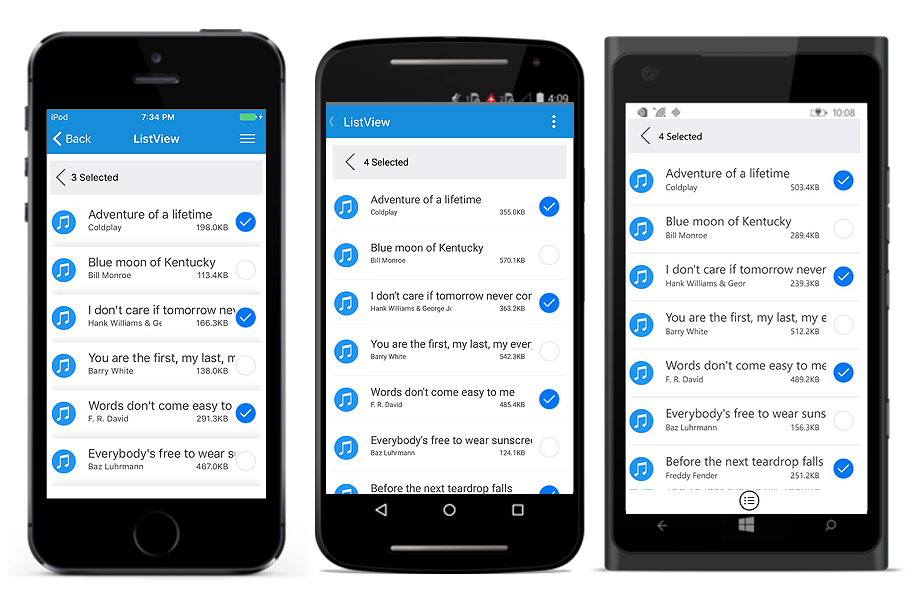
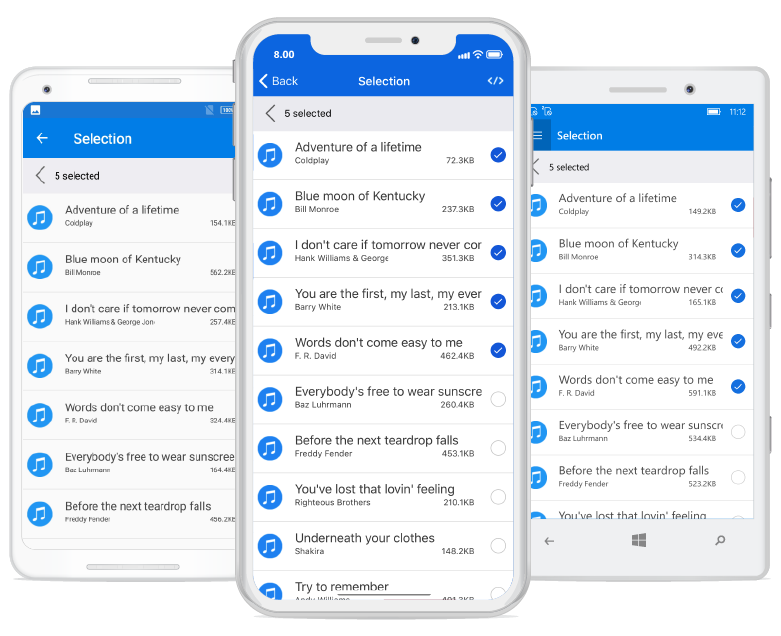
[XForms] XAMARIN-13875, Need to improve the content of Selection and Load More in ListView UG.

diff --git a/Xamarin/SfListView/LoadMore.md b/Xamarin/SfListView/LoadMore.md
@@ -8,7 +8,7 @@ documentation: ug
 ---
 # Load More
 
-SfListView enables `Load More` view by setting the [SfListView.LoadMoreOption](https://help.syncfusion.com/cr/cref_files/xamarin/sflistview/Syncfusion.SfListView.XForms~Syncfusion.ListView.XForms.SfListView~LoadMoreOption.html) and the [SfListView.LoadMoreCommand](https://help.syncfusion.com/cr/cref_files/xamarin/sflistview/Syncfusion.SfListView.XForms~Syncfusion.ListView.XForms.SfListView~LoadMoreCommand.html) properties. When end of the list is reached, `Load More View` will be displayed which provides an option to add the items at runtime.
+SfListView enables `Load More` view by setting the [SfListView.LoadMoreOption](https://help.syncfusion.com/cr/cref_files/xamarin/sflistview/Syncfusion.SfListView.XForms~Syncfusion.ListView.XForms.SfListView~LoadMoreOption.html), [SfListView.LoadMoreCommand](https://help.syncfusion.com/cr/cref_files/xamarin/sflistview/Syncfusion.SfListView.XForms~Syncfusion.ListView.XForms.SfListView~LoadMoreCommand.html) and [SfListView.IsBusy](https://help.syncfusion.com/cr/cref_files/xamarin/sflistview/Syncfusion.SfListView.XForms~Syncfusion.ListView.XForms.SfListView~IsBusy.html) properties. When end of the list is reached, `Load More` view will be displayed which provides an option to add the items at runtime.
 
 `LoadMoreOption` property has three different modes of operation as listed as follows:
 
@@ -28,13 +28,26 @@ To load more items automatically, follow the code example:
                  ItemSize="120"
                  LoadMoreOption="Auto"
                  LoadMoreCommand="{Binding LoadMoreItemsCommand}"
+                 LoadMoreCommandParameter="{Binding Source={x:Reference listView}}"
+                 IsBusy="{Binding IsBusy}"
                  ItemsSource="{Binding Products}"/>
 {% endhighlight %}
 {% highlight c# %}
 listView.LoadMoreOption = LoadMoreOption.Auto;
 listView.LoadMoreCommand = viewModel.LoadMoreItemsCommand;
+listView.SetBinding(SfListView.IsBusyProperty, new Binding("IsBusy"));
 
 //ViewModel.cs
+private bool isBusy;
+public bool IsBusy
+{
+   get { return isBusy; }
+   set
+   {
+       this.isBusy = value;
+       RaisePropertyChanged("IsBusy");
+   }
+}
 LoadMoreItemsCommand = new Command<object>(LoadMoreItems, CanLoadMoreItems);
 
 private bool CanLoadMoreItems(object obj)
@@ -46,7 +59,7 @@ private bool CanLoadMoreItems(object obj)
 
 private async void LoadMoreItems(object obj)
 {
-    var listview = obj as Syncfusion.ListView.XForms.SfListView;
+    var listView = obj as Syncfusion.ListView.XForms.SfListView;
     IsBusy = true;
     await Task.Delay(2500);
     var index = Products.Count;
@@ -86,13 +99,27 @@ To load more items manually, follow the code example:
                  ItemSize="120"
                  LoadMoreOption="Manual"
                  LoadMoreCommand="{Binding LoadMoreItemsCommand}"
+                 LoadMoreCommandParameter="{Binding Source={x:Reference listView}}"
+                 IsBusy="{Binding IsBusy}"
                  ItemsSource="{Binding Products}"/>
 {% endhighlight %}
 {% highlight c# %}
 listView.LoadMoreOption = LoadMoreOption.Manual;
 listView.LoadMoreCommand = viewModel.LoadMoreItemsCommand;
+listView.SetBinding(SfListView.IsBusyProperty, new Binding("IsBusy"));
 
 //ViewModel.cs
+private bool isBusy;
+public bool IsBusy
+{
+   get { return isBusy; }
+   set
+   {
+       this.isBusy = value;
+       RaisePropertyChanged("IsBusy");
+   }
+}
+
 LoadMoreItemsCommand = new Command<object>(LoadMoreItems, CanLoadMoreItems);
 
 private bool CanLoadMoreItems(object obj)
@@ -104,7 +131,7 @@ private bool CanLoadMoreItems(object obj)
 
 private async void LoadMoreItems(object obj)
 {
-    var listview = obj as Syncfusion.ListView.XForms.SfListView;
+    var listView = obj as Syncfusion.ListView.XForms.SfListView;
     IsBusy = true;
     await Task.Delay(2500);
     var index = Products.Count;
@@ -141,17 +168,17 @@ To set indicator visibility using `IsBusy` property, follow the code example:
 {% highlight c# %}
 private async void LoadMoreItems(object obj)
 {
-    var listview = obj as Syncfusion.ListView.XForms.SfListView;
-    listview.IsBusy = true;
+    var listView = obj as Syncfusion.ListView.XForms.SfListView;
+    IsBusy = true;
     await Task.Delay(2500);
     var index = Products.Count;
     var count = index + 3 >= totalItems ? totalItems - index : 3;
     AddProducts(index, count);
-    listview.IsBusy = false;
+    IsBusy = false;
 }
 {% endhighlight %}
 
-Download the entire source code of this demo from [here](http://www.syncfusion.com/downloads/support/directtrac/general/ze/Load_More-599629646).
+Download the entire source code of this demo from [here](http://www.syncfusion.com/downloads/support/directtrac/general/ze/LoadMore-1858684303.zip).
 
 Refer to the following output to load more items:
 
@@ -186,6 +213,8 @@ To customize load more button, follow the code example:
                            ItemSize="120"
                            LoadMoreOption="Manual"
                            LoadMoreCommand="{Binding LoadMoreItemsCommand}"
+                           LoadMoreCommandParameter="{Binding Source={x:Reference listView}}"
+                           IsBusy="{Binding IsBusy}"
                            ItemsSource="{Binding Products}">
         <syncfusion:SfListView.LoadMoreTemplate>
             <DataTemplate>
@@ -241,11 +270,13 @@ To set custom loading indicator, follow the code example:
                            ItemSize="120"
                            LoadMoreOption="Manual"
                            LoadMoreCommand="{Binding LoadMoreItemsCommand}"
+                           LoadMoreCommandParameter="{Binding Source={x:Reference listView}}"
+                           IsBusy="{Binding IsBusy}"
                            ItemsSource="{Binding Products}">
         <syncfusion:SfListView.LoadMoreTemplate>
             <DataTemplate>
                 <Grid>
-                    <Label Text="Load More Items..." TextColor="Black" HorizontalTextAlignment="Center" VerticalTextAlignment="Center" IsVisible="{Binding IsBusy, Converter={StaticResource inverseBoolConverter}}" />
+                    <Label Text="Load More Items" TextColor="Black" HorizontalTextAlignment="Center" VerticalTextAlignment="Center" IsVisible="{Binding IsBusy, Converter={StaticResource inverseBoolConverter}}" />
                     <syncfusion:LoadMoreIndicator IsRunning="{Binding IsBusy}" IsVisible="{Binding IsBusy}" Color="Red" VerticalOptions="Center"/>                             
                 </Grid>
             </DataTemplate>
@@ -289,13 +320,13 @@ LoadMoreItemsCommand = new Command<object>(LoadMoreItems, CanLoadMoreItems);
 
 private async void LoadMoreItems(object obj)
 {
-    var listview = obj as Syncfusion.ListView.XForms.SfListView;
-    listview.IsBusy = true;
+    var listView = obj as Syncfusion.ListView.XForms.SfListView;
+    IsBusy = true;
     await Task.Delay(2500);
     var index = Products.Count;
     var count = index + 3 >= totalItems ? totalItems - index : 3;
     AddProducts(index, count);
-    listview.IsBusy = false;
+    IsBusy = false;
 }
 private bool CanLoadMoreItems(object obj)
 {
@@ -304,7 +335,6 @@ private bool CanLoadMoreItems(object obj)
     return true;
 }
 {% endhighlight %}
-
 
 ## Limitations
 

diff --git a/Xamarin/SfListView/Selection.md b/Xamarin/SfListView/Selection.md
@@ -16,7 +16,8 @@ This section explains about how to perform selection in SfListView and its relat
 SfListView lets you to select the items either programmatically or by touch interactions. To enable selection in SfListView, you need to set the [SelectionMode](https://help.syncfusion.com/cr/cref_files/xamarin/sflistview/Syncfusion.SfListView.XForms~Syncfusion.ListView.XForms.SfListView~SelectionMode.html) property value to other than `None`. SfListView has different selection modes to perform selection operation as listed below.
 
 * None: Disables the selection.
-* Single: Allows you to select a single item only. When you click on the selected item, selection gets cleared. This is the default value for `SelectionMode`.
+* Single: Allows you to select a single item only. When you click on the selected item, selection is not cleared. This is the default value for `SelectionMode`.
+* SingleDeselect: Allows you to select a single item only. When you click on the selected item, selection gets cleared.
 * Multiple: Allows you to select more than one item. Selection is not cleared when selecting more than one items. When you click on the selected item, selection gets cleared.
 
 SfListView allows you to select the items on different gestures such as tap, double tap and hold. This can be achieved by setting the [SelectionGesture](https://help.syncfusion.com/cr/cref_files/xamarin/sflistview/Syncfusion.SfListView.XForms~Syncfusion.ListView.XForms.SfListView~SelectionGesture.html). The default value for the `SelectionGesture` is [TouchGesture.Tap](https://help.syncfusion.com/cr/cref_files/xamarin/sflistview/Syncfusion.SfListView.XForms~Syncfusion.ListView.XForms.TouchGesture.html).
@@ -37,7 +38,6 @@ When [SelectionMode](https://help.syncfusion.com/cr/cref_files/xamarin/sflistvie
 When the selection mode is `Single` you can programmatically select an item by setting the underlying object to the `SelectedItem` property. 
 
 {% highlight c# %}
-
 //Perform selection using selected item
 listView.SelectedItem = viewModel.Items[5];
 {% endhighlight %}
@@ -59,8 +59,7 @@ listView.SelectAll();
 ## Get Selected Items
 
 SfListView allows you to get all the selected items through [SelectedItems](https://help.syncfusion.com/cr/cref_files/xamarin/sflistview/Syncfusion.SfListView.XForms~Syncfusion.ListView.XForms.SfListView~SelectedItems.html) property.
-
-N>  You cannot set or bind the value to the `SelectedItems` property, you can only add, remove or reset the items to the `SelectedItems` property to update the selection.
+You can set or bind value to the `SelectedItems` property.
 
 ### CurrentItem vs SelectedItem
 
@@ -158,44 +157,39 @@ SfListView allows to customize the appearance of selected item/items. The follow
 
 {% highlight xaml %}
 <ContentPage>
-  <ContentPage.Resources>
-    <ResourceDictionary>
-      <local:SelectionBoolToImageConverter x:Key="BoolToImageConverter"/>
-    </ResourceDictionary>
-  </ContentPage.Resources>
   <syncfusion:SfListView x:Name="listView">
-    <syncfusion:SfListView.ItemTemplate>
-      <DataTemplate>
-        <Image x:Name="selectionImage" Margin="10,0,10,0"
-               Source="{Binding Path=IsSelected, Converter={StaticResource BoolToImageConverter}}"/>
-      </DataTemplate>
-    </syncfusion:SfListView.ItemTemplate>
+   <syncfusion:SfListView.SelectedItemTemplate>
+    <DataTemplate>
+     <Grid x:Name="grid">
+      <Grid.ColumnDefinitions>
+       <ColumnDefinition Width="40" />
+       <ColumnDefinition Width="*" />    
+       <ColumnDefinition Width="Auto" />
+      </Grid.ColumnDefinitions>
+      <Image Source="{Binding SongThumbnail}"/>
+      <Grid Grid.Column="1">
+       <Grid.RowDefinitions>
+        <RowDefinition Height="*" />
+        <RowDefinition Height="*" />
+       </Grid.RowDefinitions>
+       <Label Text="{Binding SongTitle}" />
+       <Grid Grid.Row="1">
+        <Grid.ColumnDefinitions>
+         <ColumnDefinition Width="*" />
+         <ColumnDefinition Width="*" />
+        </Grid.ColumnDefinitions>
+        <Label Text="{Binding SongAuther}" />
+        <Label Grid.Column="1" Text="{Binding SongSize}"/>
+       </Grid>
+      </Grid>
+      <Image Grid.Column="2" x:Name="selectionImage" IsVisible="True" Source="Selected.png"/>
+     </Grid>
+    </DataTemplate>
+   </syncfusion:SfListView.SelectedItemTemplate>
   </syncfusion:SfListView>
 </ContentPage>
 {% endhighlight %}
 
-{% highlight c# %}
-
-public class SelectionBoolToImageConverter : IValueConverter
-{
-   public object Convert(object value, Type targetType, object parameter, CultureInfo culture)
-   {
-      if ((bool)value)
-         return ImageSource.FromResource("CustomSelection.Images.Selected.png");
-      else
-         return ImageSource.FromResource("CustomSelection.Images.NotSelected.png");
-   }
-
-   public object ConvertBack(object value, Type targetType, object parameter, CultureInfo culture)
-   {
-      throw new NotImplementedException();
-   }
-}
-
-{% endhighlight %}
-
-In the above example, to change the appearance of selected item, `IsSelected` property is maintained in model class and binded to an image element in the [ItemTemplate](https://help.syncfusion.com/cr/cref_files/xamarin/sflistview/Syncfusion.SfListView.XForms~Syncfusion.ListView.XForms.SfListView~ItemTemplate.html). And `IsSelected` property of data item has been updated based on the selection from `SelectionChanged` event of SfListView. The binded image's source is changed by using `SelectionBoolToImageConverter` converter. 
-
-Now run the application to render the following output. You can download the entire source code of this demo from [here](http://www.syncfusion.com/downloads/support/directtrac/general/ze/Listview_CustomSelection546520441).
+Now run the application to render the following output. You can download the entire source code of this demo from [here](http://www.syncfusion.com/downloads/support/directtrac/general/ze/CustomSelection-1369390597).
 
 ![](SfListView_images/SfListView-Selection-2.png)

diff --git a/Xamarin/SfListView/Item-Drag-And-Drop.md b/Xamarin/SfListView/Item-Drag-And-Drop.md
@@ -218,8 +218,8 @@ To cancel dropping for the dragged item, handle the [ItemDragging](https://help.
 private void ListView_ItemDragging(object sender, ItemDraggingEventArgs e)
 {
   // Cancel the dropping if drop the drag item into out of view.
-  var listview = sender as ListView;
-  var totalExtent = listview.GetVisualContainer().Bounds.Bottom;
+  var listView = sender as ListView;
+  var totalExtent = listView.GetVisualContainer().Bounds.Bottom;
   if (e.Action == DragAction.Drop && (e.Bounds.Y < -30 || e.Bounds.Bottom > totalExtent + 40))
     e.Cancel = true;
 }
@@ -227,19 +227,10 @@ private void ListView_ItemDragging(object sender, ItemDraggingEventArgs e)
 
 ## Reorder the underlying collection 
 
-The underlying collection can be reordered directly by handling [ItemDragging](https://help.syncfusion.com/cr/cref_files/xamarin/sflistview/Syncfusion.SfListView.XForms~Syncfusion.ListView.XForms.SfListView~ItemDragging_EV.html) event. To make permanent reordering changes, follow the code example:
+The underlying collection can be reordered by set the [UpdateSource](https://help.syncfusion.com/cr/cref_files/xamarin/sflistview/Syncfusion.SfListView.XForms~Syncfusion.ListView.XForms.DragDropController~UpdateSource.html) property. The default value for UpdateSource property is `false`. To update the underlying items in the collection, follow the code example.
 
 {% highlight c# %}
-private async void ListView_ItemDragging(object sender, ItemDraggingEventArgs e)
-{
-  // Reorder the item in underlying collection.
-  if (e.Action == DragAction.Drop)
-  {
-    await Task.Delay(100);
-    var collection = listView.BindingContext as ViewModel;
-    collection.ToDoList.Move(e.OldIndex, e.NewIndex);
-  }
-}
+this.listView.DragDropController.UpdateSource = true;
 {% endhighlight %}
 
 ## Delete item when dropping in a particular view

diff --git a/Xamarin/SfListView/Working-with-SfListView.md b/Xamarin/SfListView/Working-with-SfListView.md
@@ -44,7 +44,7 @@ In the following sample, ScrollView height is set into the `HeightRequest` of Sf
 }
 {% endhighlight %}
 
-You can download the entire source code from [here] (http://www.syncfusion.com/downloads/support/directtrac/general/ze/SfListViewSample197024233.zip).
+You can download the entire source code from [here](http://www.syncfusion.com/downloads/support/directtrac/general/ze/SfListViewSample197024233.zip).
 
 ## Load the SfListView inside a SfPullToRefresh
 SfPullToRefresh is a refresh control that allows you to interact and refresh the view loaded in it. When the SfListView is loaded inside the SfPullToRefresh, it is used to refresh the item while performing the pull to refresh action. The steps to be followed to load the SfListView inside SfPullToRefresh is explained in SfPullToRefresh Property Customization tab.

diff --git a/Xamarin/SfListView/Getting-started.md b/Xamarin/SfListView/Getting-started.md
@@ -404,7 +404,7 @@ namespace GettingStarted
 {% endhighlight %}
 {% endtabs %}
 
-Now run the application to render the following output. You can also download the entire source code of this demo from [here](http://www.syncfusion.com/downloads/support/directtrac/general/ze/Listview_GettingStarted1048237669).
+Now run the application to render the following output. You can also download the entire source code of this demo from [here](http://www.syncfusion.com/downloads/support/directtrac/general/ze/GettingStarted-1127156016).
 
 ![](SfListView_images/SfListView-Xamarin_img2.png)
 
